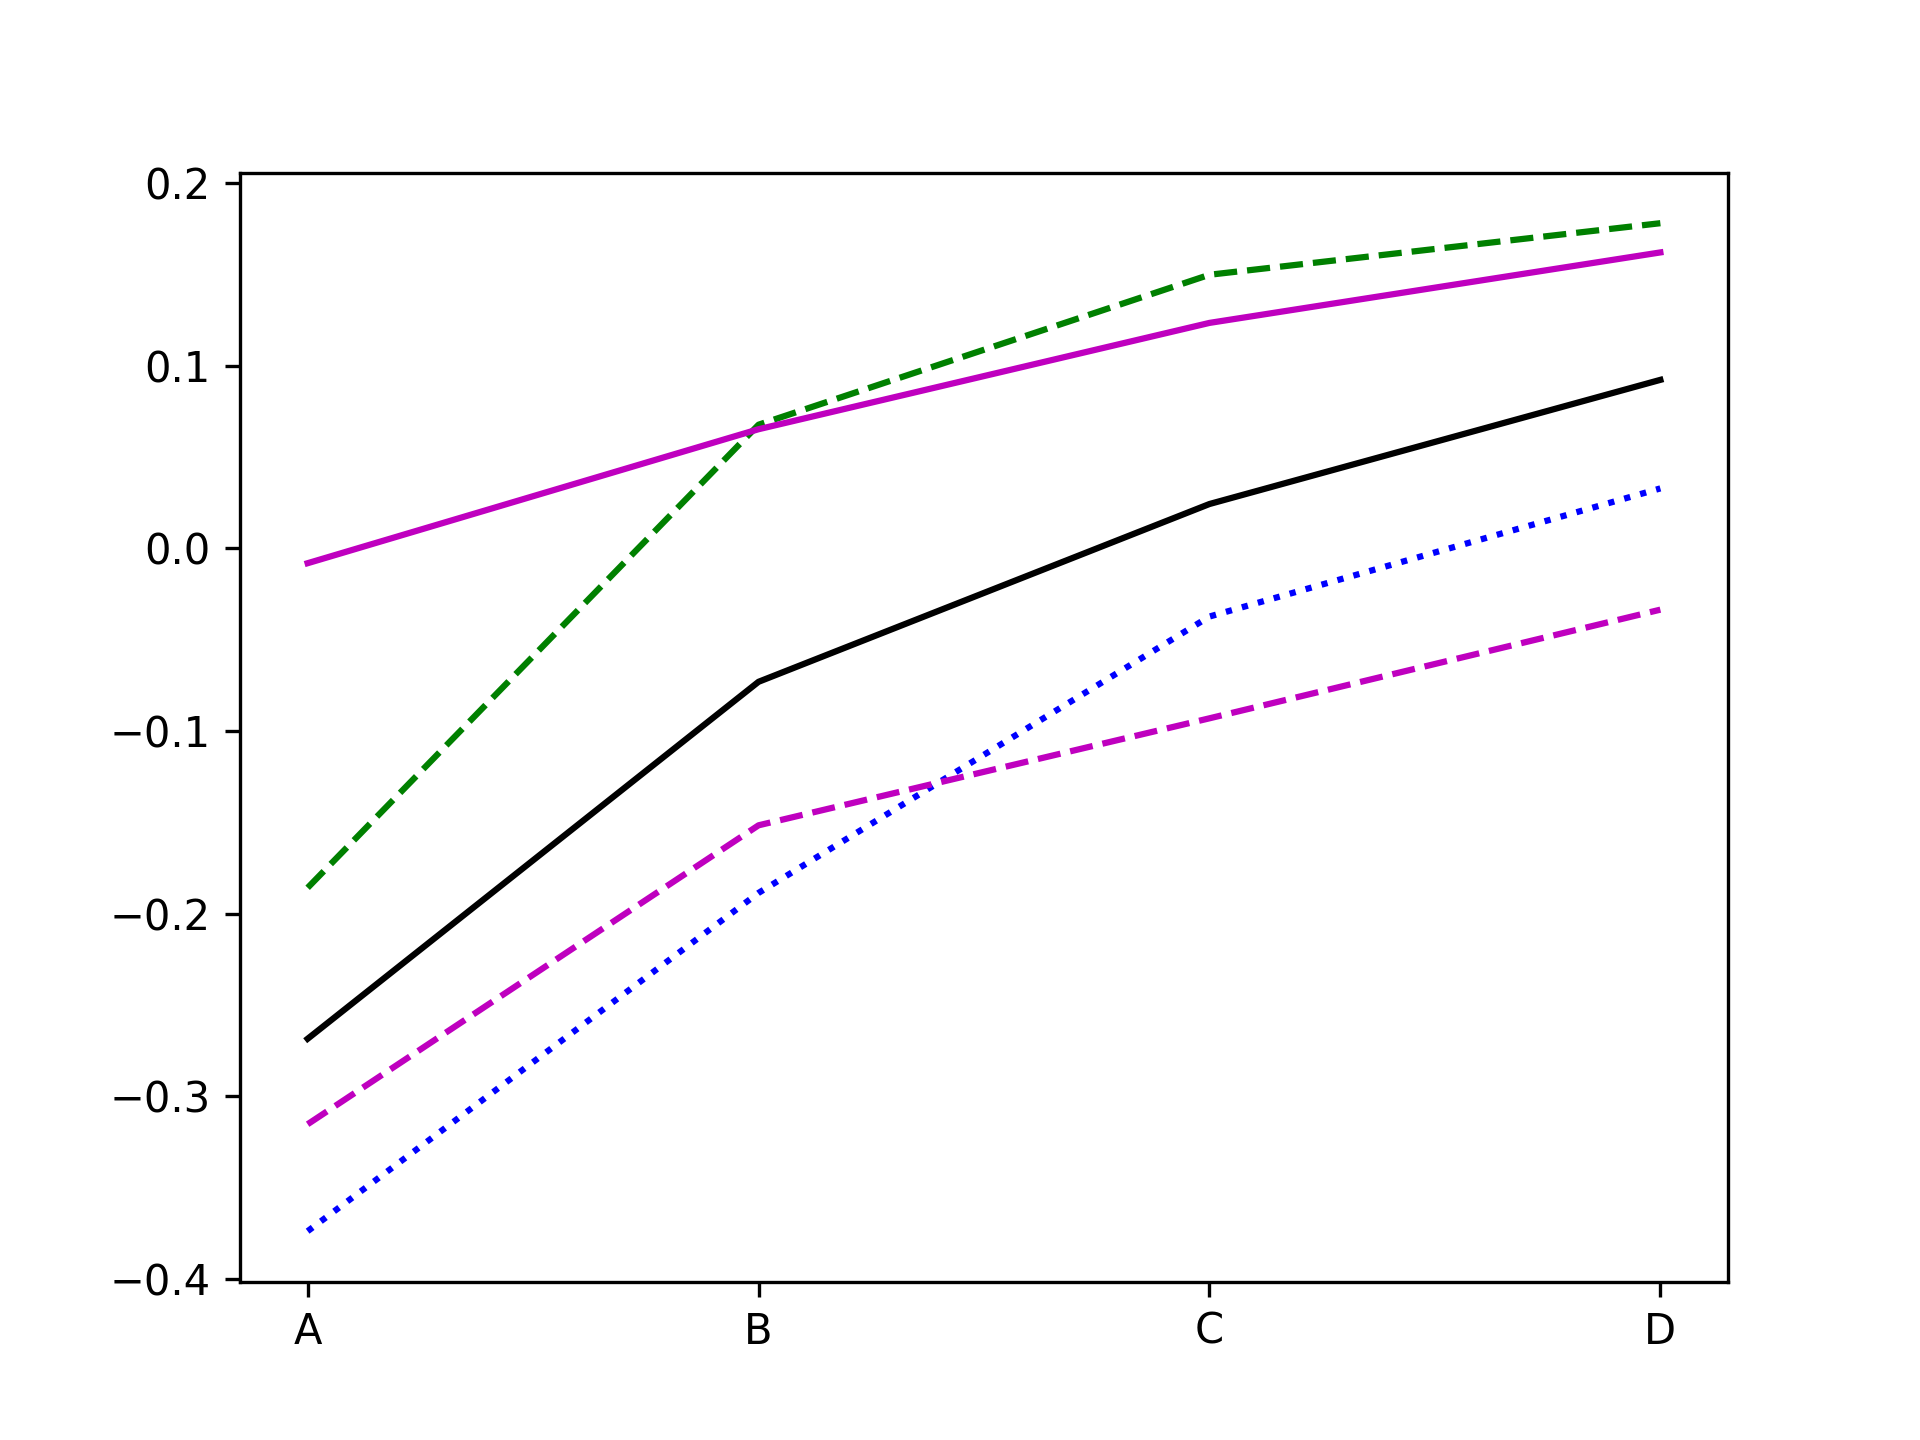
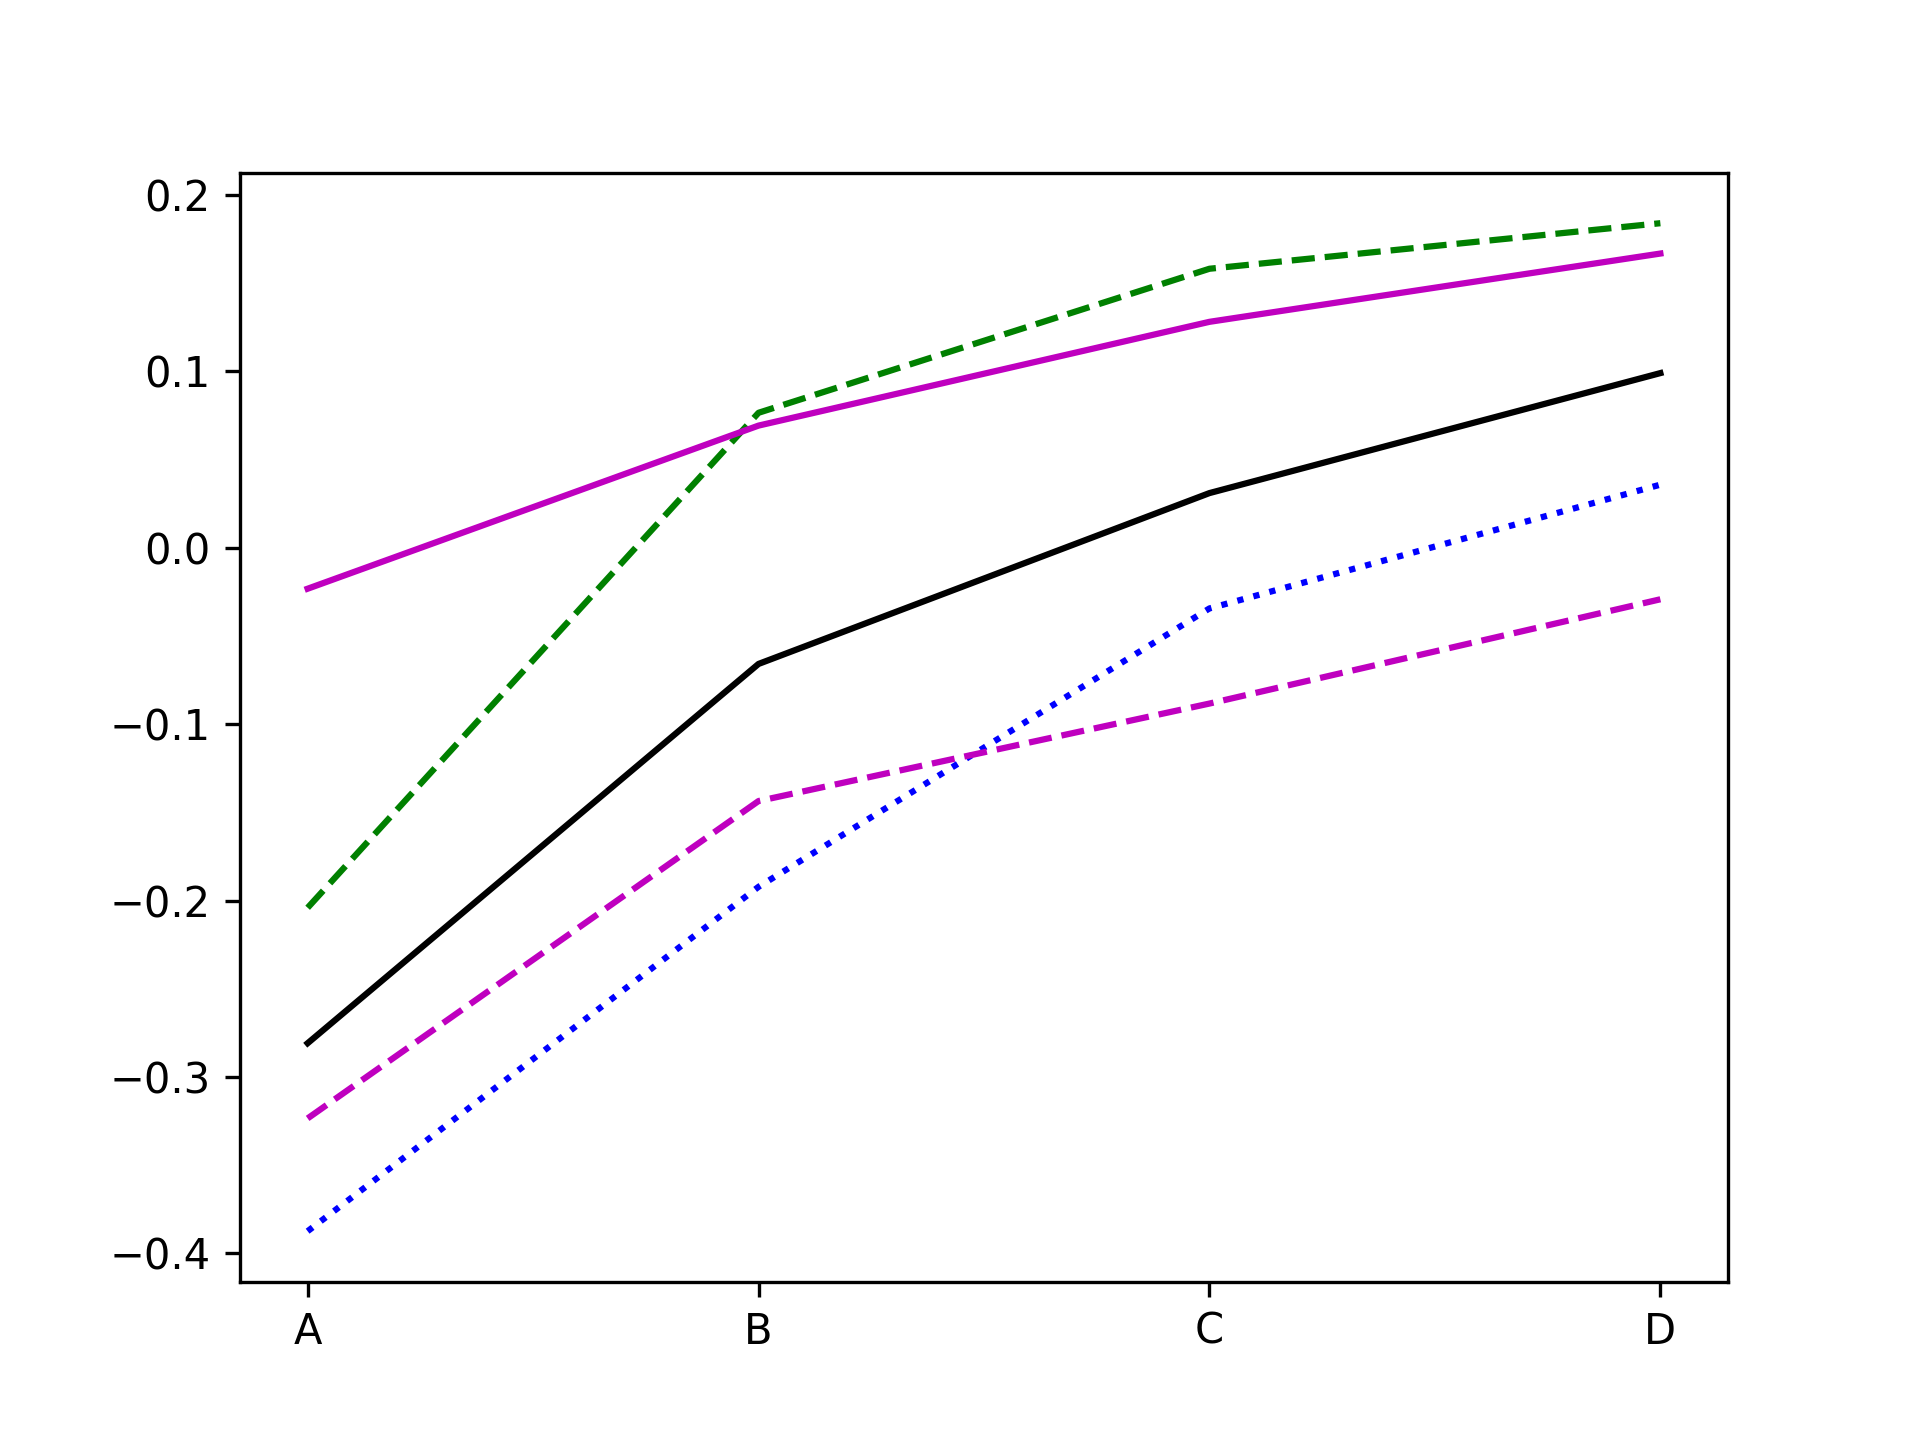
factored PHOLC into PM25 intraurban differences

diff --git a/pm25-diff.py b/pm25-diff.py
@@ -47,29 +47,29 @@ pm25_white_D    = []
 
 for i in df.index:
    if df['Grade'][i] == 'A':
-      pm25_hispanic_A += (df['Hispanic'][i] * [(df['PM25'][i] - pwms[df['City'][i]])])
-      pm25_asian_A += (df['Asian'][i] * [(df['PM25'][i] - pwms[df['City'][i]])])
-      pm25_black_A += (df['Black'][i] * [(df['PM25'][i] - pwms[df['City'][i]])])
-      pm25_total_A += (df['Total'][i] * [(df['PM25'][i] - pwms[df['City'][i]])])
-      pm25_white_A += (df['White'][i] * [(df['PM25'][i] - pwms[df['City'][i]])])
+      pm25_hispanic_A += (round(df['PHOLC'][i] * df['Hispanic'][i]) * [(df['PM25'][i] - pwms[df['City'][i]])])
+      pm25_asian_A += (round(df['PHOLC'][i] * df['Asian'][i]) * [(df['PM25'][i] - pwms[df['City'][i]])])
+      pm25_black_A += (round(df['PHOLC'][i] * df['Black'][i]) * [(df['PM25'][i] - pwms[df['City'][i]])])
+      pm25_total_A += (round(df['PHOLC'][i] * df['Total'][i]) * [(df['PM25'][i] - pwms[df['City'][i]])])
+      pm25_white_A += (round(df['PHOLC'][i] * df['White'][i]) * [(df['PM25'][i] - pwms[df['City'][i]])])
    if df['Grade'][i] == 'B':
-      pm25_hispanic_B += (df['Hispanic'][i] * [(df['PM25'][i] - pwms[df['City'][i]])])
-      pm25_asian_B += (df['Asian'][i] * [(df['PM25'][i] - pwms[df['City'][i]])])
-      pm25_black_B += (df['Black'][i] * [(df['PM25'][i] - pwms[df['City'][i]])])
-      pm25_total_B += (df['Total'][i] * [(df['PM25'][i] - pwms[df['City'][i]])])
-      pm25_white_B += (df['White'][i] * [(df['PM25'][i] - pwms[df['City'][i]])])
+      pm25_hispanic_B += (round(df['PHOLC'][i] * df['Hispanic'][i]) * [(df['PM25'][i] - pwms[df['City'][i]])])
+      pm25_asian_B += (round(df['PHOLC'][i] * df['Asian'][i]) * [(df['PM25'][i] - pwms[df['City'][i]])])
+      pm25_black_B += (round(df['PHOLC'][i] * df['Black'][i]) * [(df['PM25'][i] - pwms[df['City'][i]])])
+      pm25_total_B += (round(df['PHOLC'][i] * df['Total'][i]) * [(df['PM25'][i] - pwms[df['City'][i]])])
+      pm25_white_B += (round(df['PHOLC'][i] * df['White'][i]) * [(df['PM25'][i] - pwms[df['City'][i]])])
    if df['Grade'][i] == 'C':
-      pm25_hispanic_C += (df['Hispanic'][i] * [(df['PM25'][i] - pwms[df['City'][i]])])
-      pm25_asian_C += (df['Asian'][i] * [(df['PM25'][i] - pwms[df['City'][i]])])
-      pm25_black_C += (df['Black'][i] * [(df['PM25'][i] - pwms[df['City'][i]])])
-      pm25_total_C += (df['Total'][i] * [(df['PM25'][i] - pwms[df['City'][i]])])
-      pm25_white_C += (df['White'][i] * [(df['PM25'][i] - pwms[df['City'][i]])])
+      pm25_hispanic_C += (round(df['PHOLC'][i] * df['Hispanic'][i]) * [(df['PM25'][i] - pwms[df['City'][i]])])
+      pm25_asian_C += (round(df['PHOLC'][i] * df['Asian'][i]) * [(df['PM25'][i] - pwms[df['City'][i]])])
+      pm25_black_C += (round(df['PHOLC'][i] * df['Black'][i]) * [(df['PM25'][i] - pwms[df['City'][i]])])
+      pm25_total_C += (round(df['PHOLC'][i] * df['Total'][i]) * [(df['PM25'][i] - pwms[df['City'][i]])])
+      pm25_white_C += (round(df['PHOLC'][i] * df['White'][i]) * [(df['PM25'][i] - pwms[df['City'][i]])])
    if df['Grade'][i] == 'D':
-      pm25_hispanic_D += (df['Hispanic'][i] * [(df['PM25'][i] - pwms[df['City'][i]])])
-      pm25_asian_D += (df['Asian'][i] * [(df['PM25'][i] - pwms[df['City'][i]])])
-      pm25_black_D += (df['Black'][i] * [(df['PM25'][i] - pwms[df['City'][i]])])
-      pm25_total_D += (df['Total'][i] * [(df['PM25'][i] - pwms[df['City'][i]])])
-      pm25_white_D += (df['White'][i] * [(df['PM25'][i] - pwms[df['City'][i]])])
+      pm25_hispanic_D += (round(df['PHOLC'][i] * df['Hispanic'][i]) * [(df['PM25'][i] - pwms[df['City'][i]])])
+      pm25_asian_D += (round(df['PHOLC'][i] * df['Asian'][i]) * [(df['PM25'][i] - pwms[df['City'][i]])])
+      pm25_black_D += (round(df['PHOLC'][i] * df['Black'][i]) * [(df['PM25'][i] - pwms[df['City'][i]])])
+      pm25_total_D += (round(df['PHOLC'][i] * df['Total'][i]) * [(df['PM25'][i] - pwms[df['City'][i]])])
+      pm25_white_D += (round(df['PHOLC'][i] * df['White'][i]) * [(df['PM25'][i] - pwms[df['City'][i]])])
 
 h1 = np.average(pm25_hispanic_A)
 h2 = np.average(pm25_hispanic_B)
